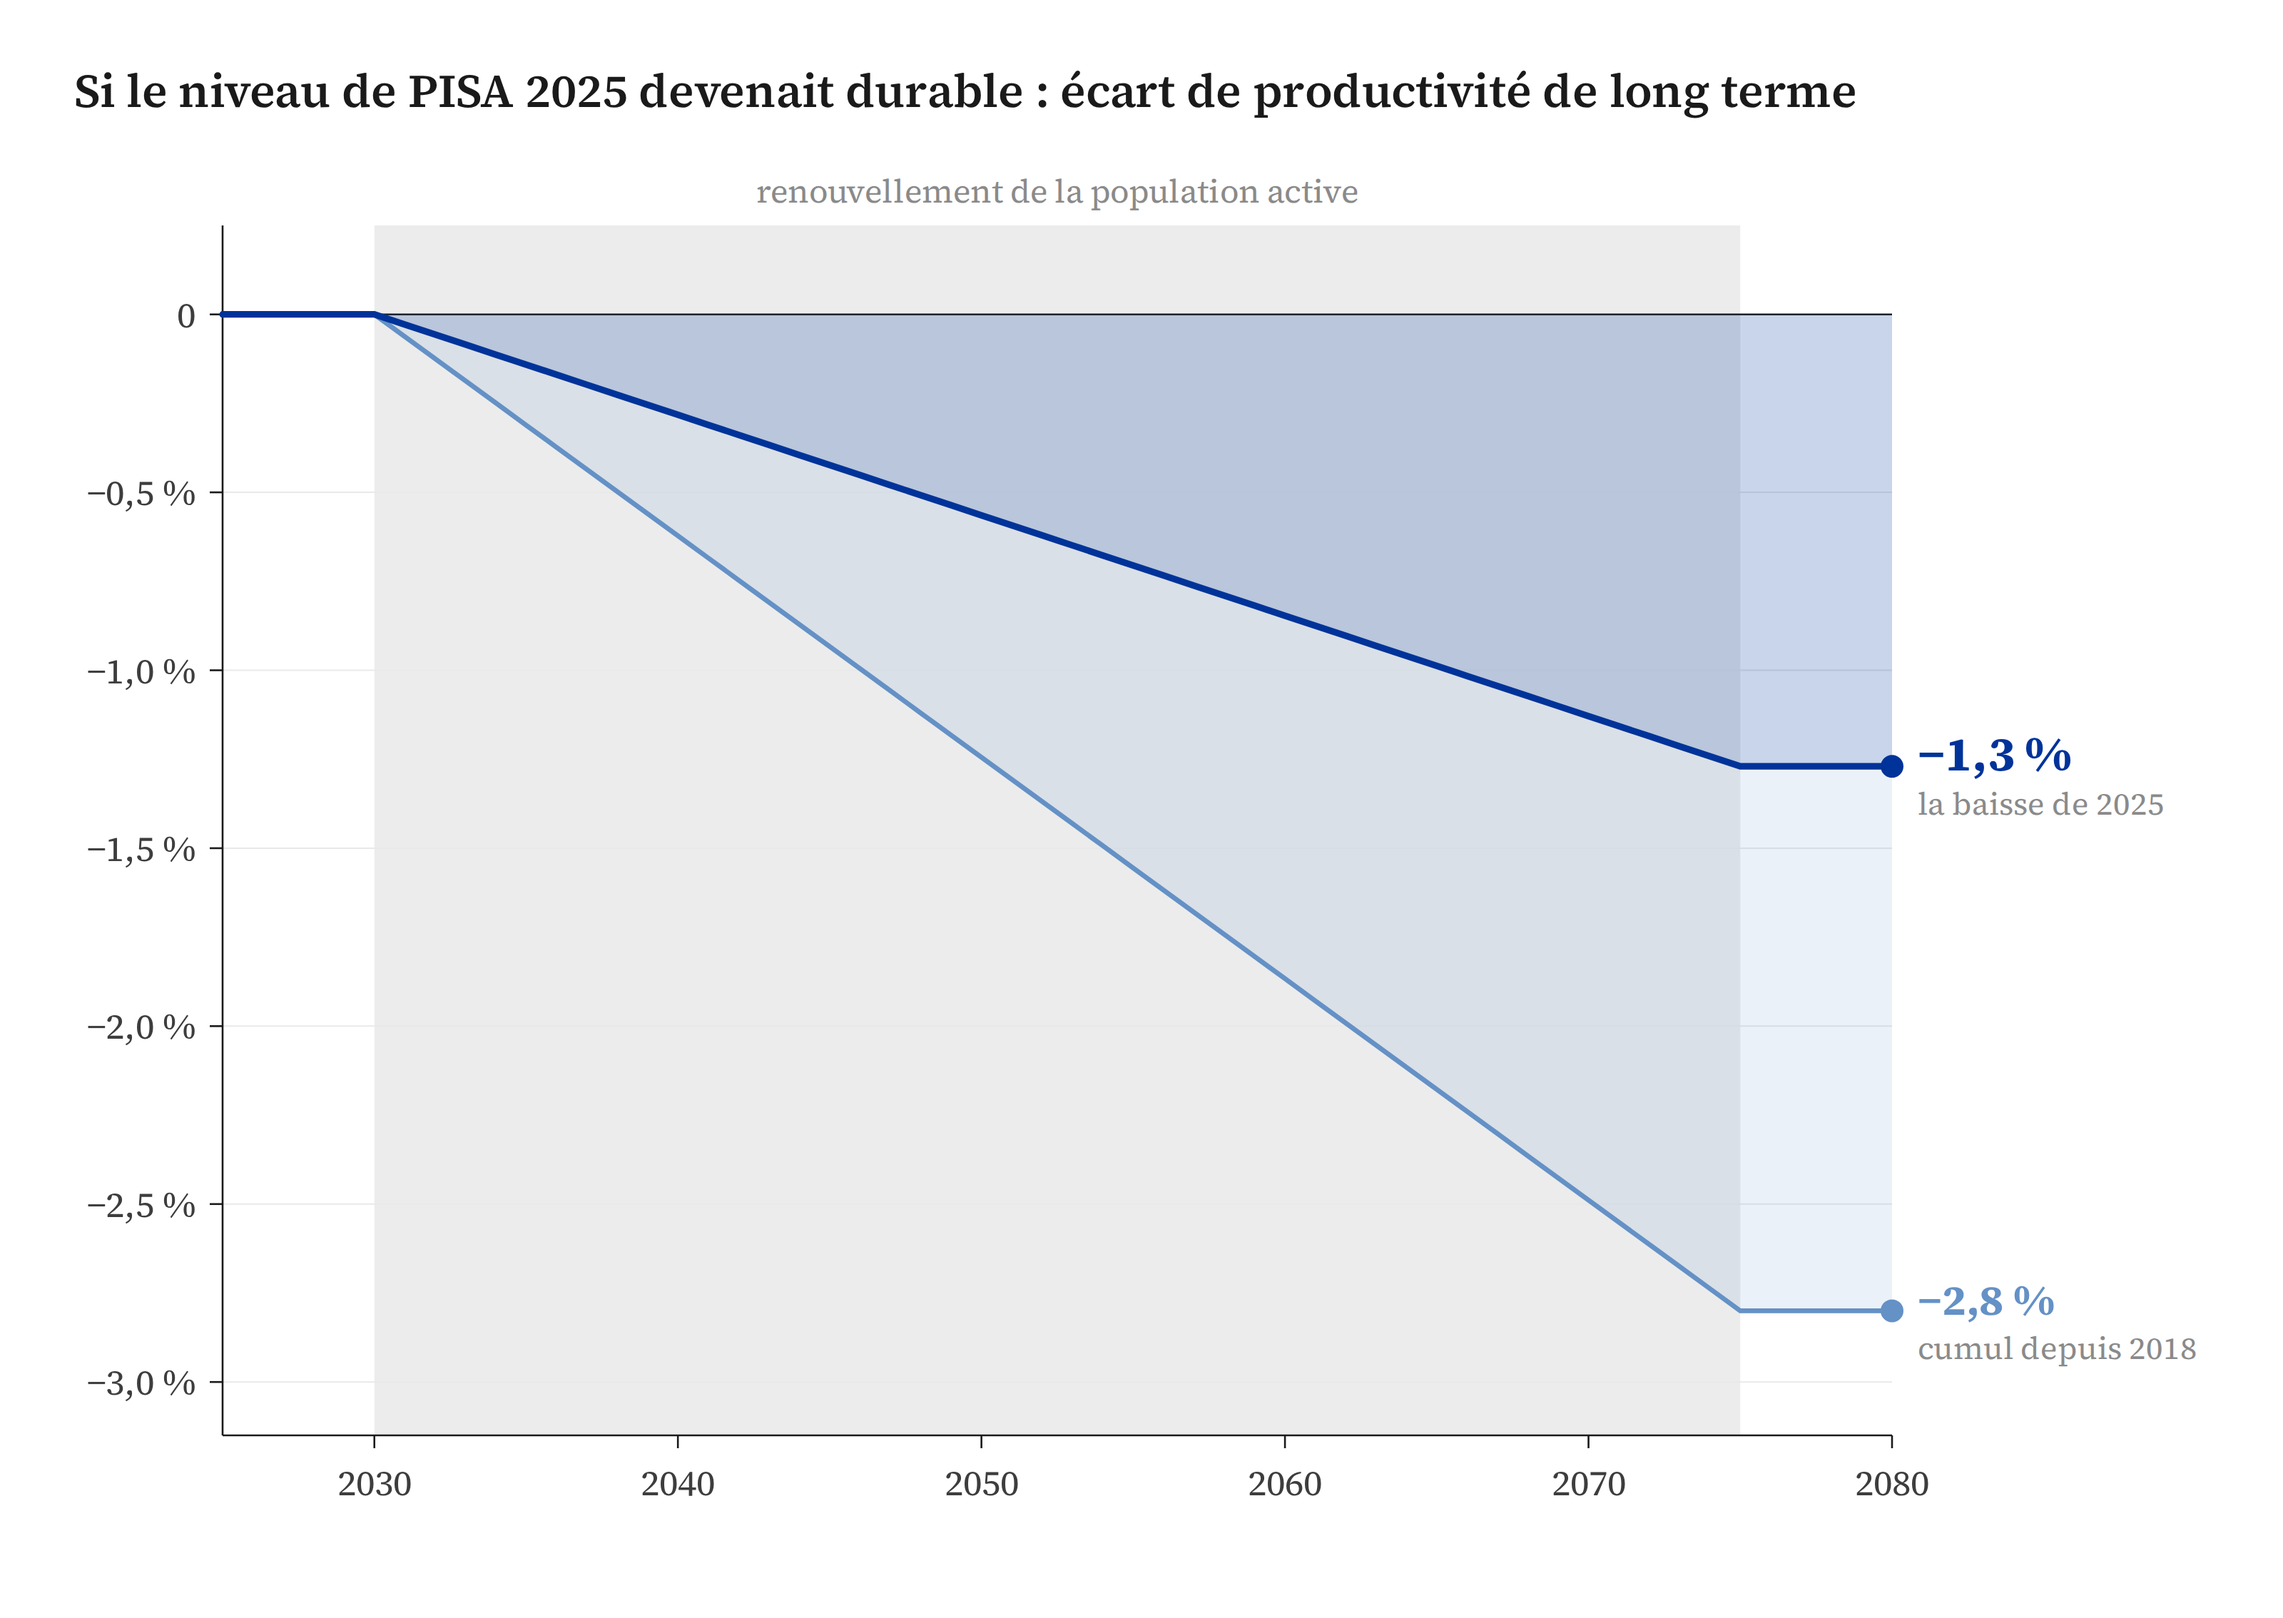
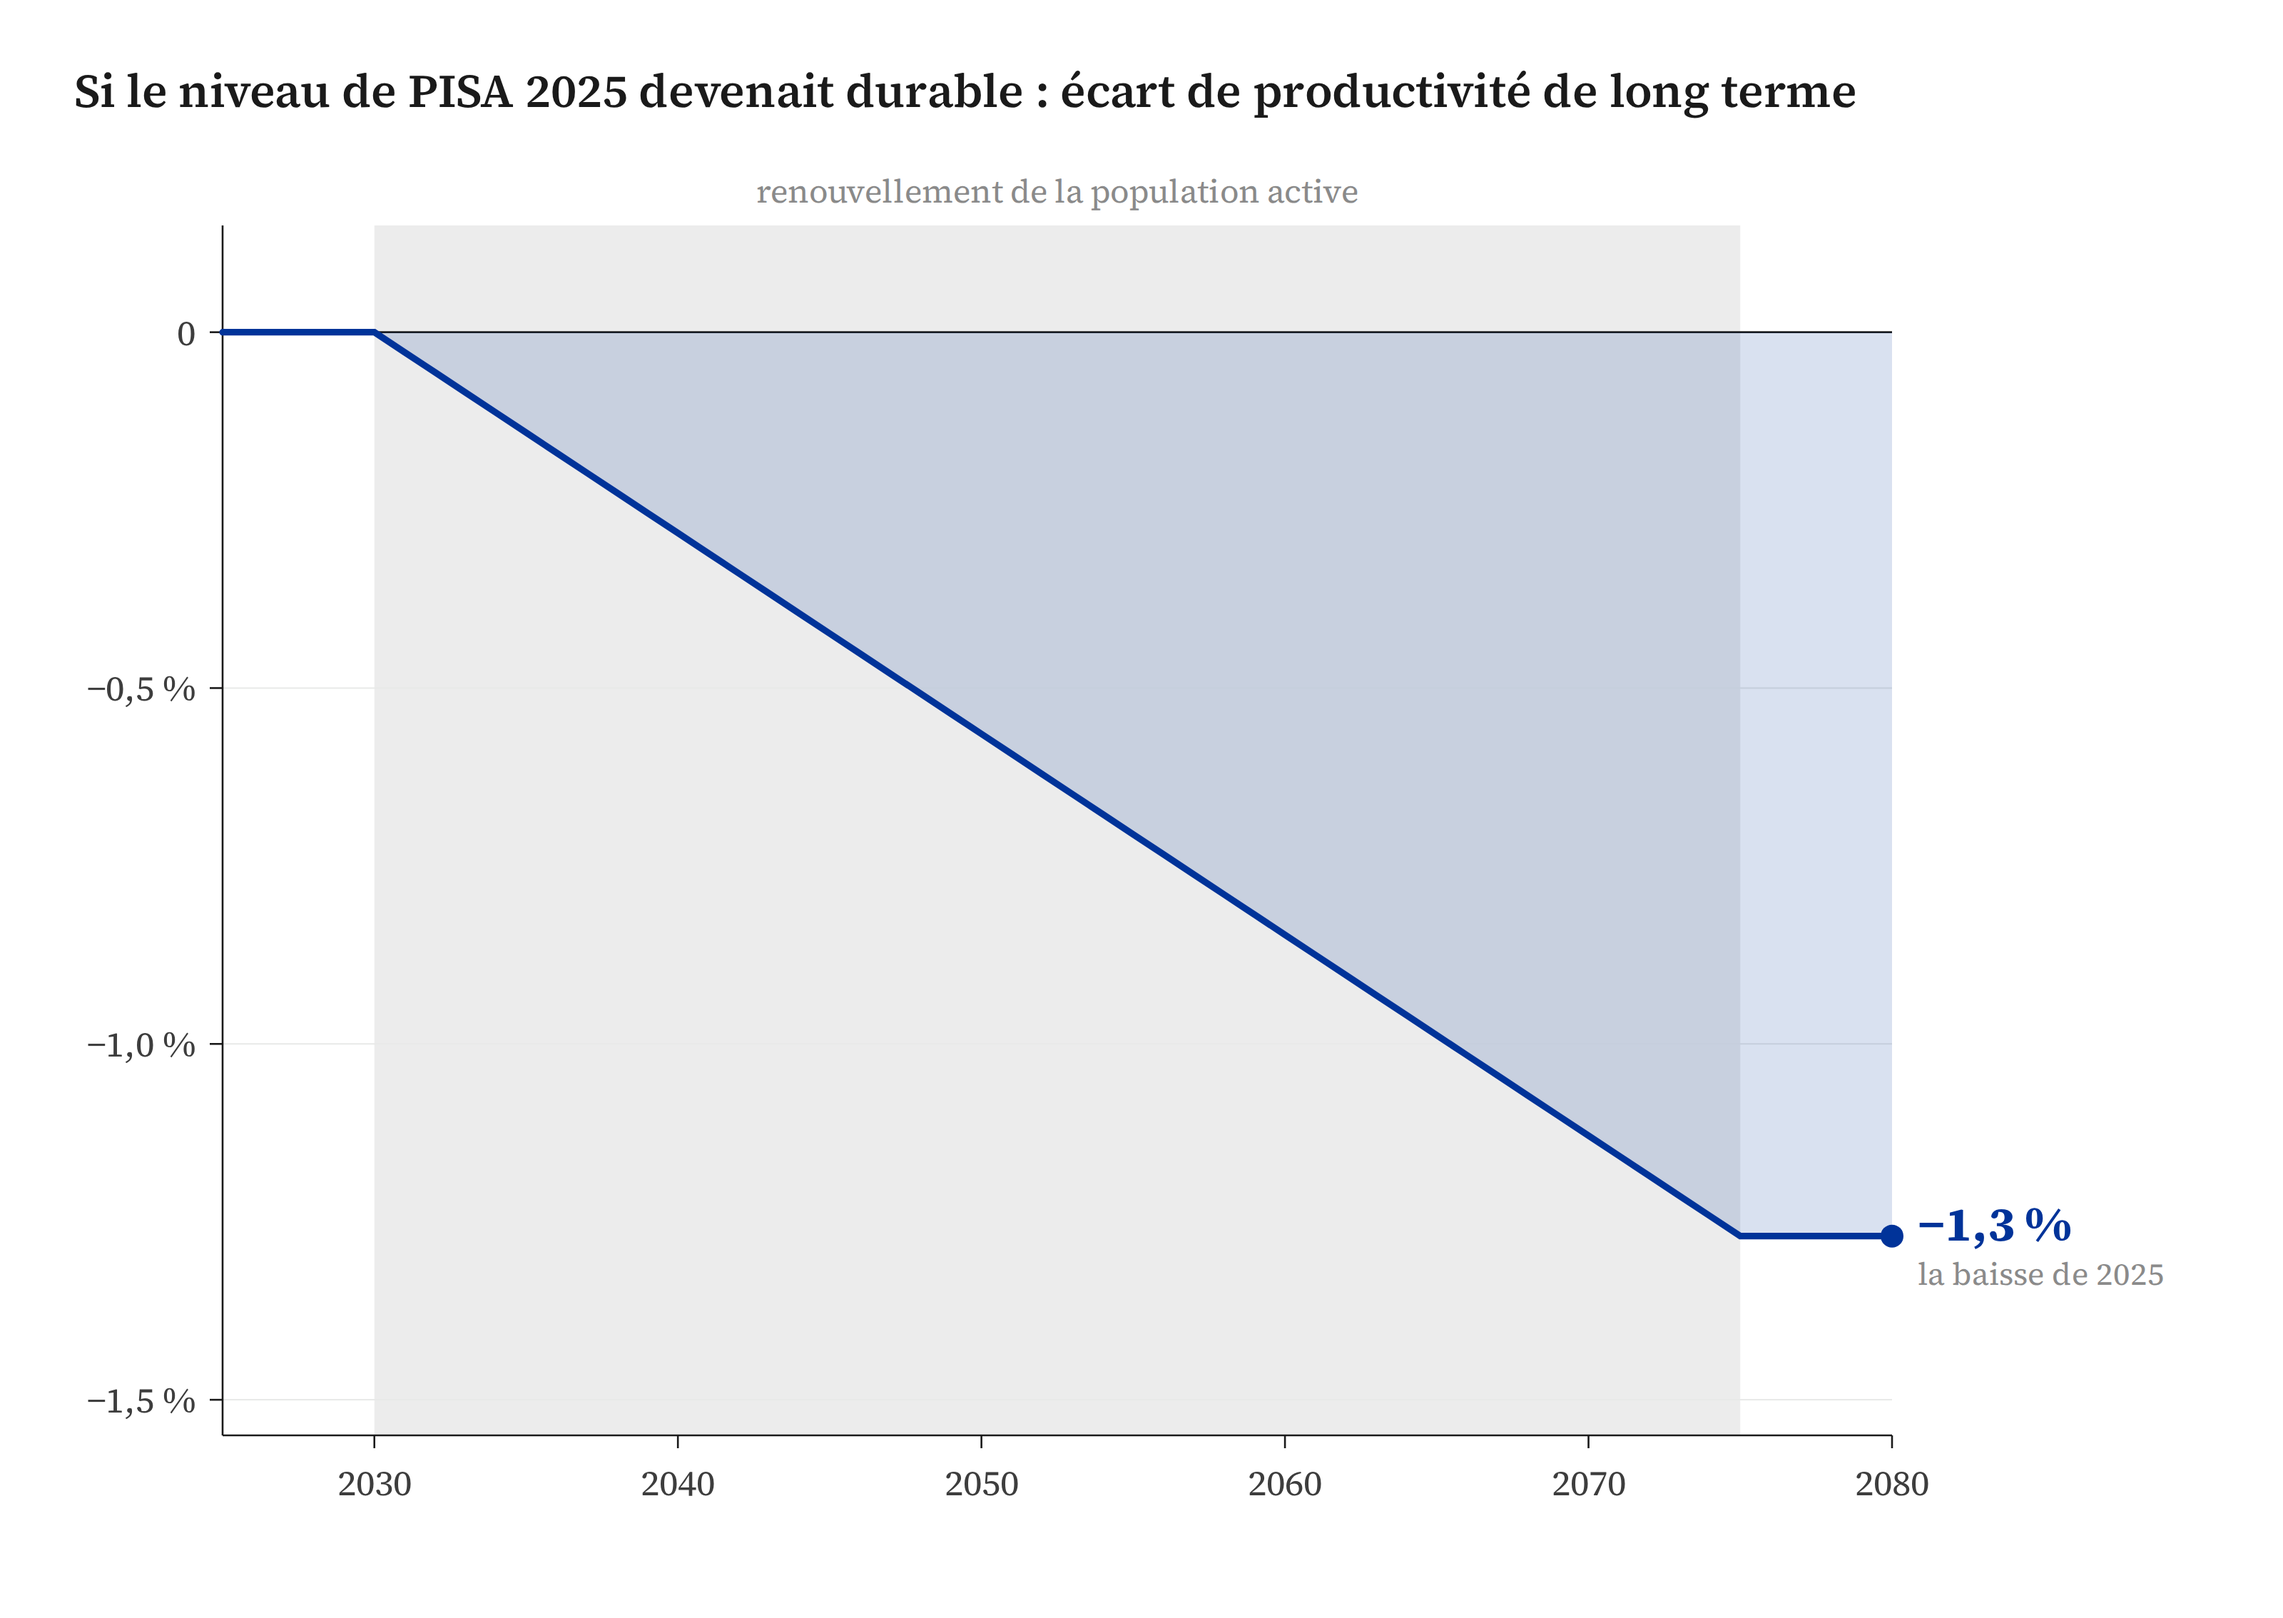
pisa: exprimer le thread et les figures par rapport à PISA 2022 uniquement
Le choc de référence retenu partout est désormais le seul écart 2022→2025
(−12,7 points, ≈−1,3 % de productivité de long terme), sans mélanger le
cumul depuis 2018.

- thread.md : tweets 1, 7, 8, 11 et la table de vérification réécrits pour
  ne garder que la comparaison à 2022 ; corrige au passage une incohérence
  résiduelle (une objection anticipée citait encore "−3 %" au lieu de
  "−1,3 %").
- figures/figures.html : fig3 ne garde que le bracket 2022→2025 (retire
  le bracket 2018) et corrige une collision entre le label "478,3" et la
  ligne de la série ; fig1 (le graphique de diffusion 2030-2075, en attente
  d'être remplacé par un nouveau design) perd sa trace cumulée 2018 pour
  rester cohérent avec le reste dans l'intervalle.

Claude-Session: https://claude.ai/code/session_01SW7mKrk2bK8EYwjJ4TJnMY

diff --git a/pisa/figures/figures.html b/pisa/figures/figures.html
@@ -40,12 +40,12 @@ const AXE={stroke:"var(--encre)","stroke-width":1.3};
 (function(){
   const s=document.getElementById("s1"), W=1496;
   const L=104,R=222,T0=54,B=902;
-  const px=v=>L+(v-2025)/(2080-2025)*(W-L-R), py=v=>T0+(0.25-v)/(0.25-(-3.15))*(B-T0);
+  const px=v=>L+(v-2025)/(2080-2025)*(W-L-R), py=v=>T0+(0.15-v)/(0.15-(-1.55))*(B-T0);
   const part=t=>Math.min(1,Math.max(0,(t-2030)/(2075-2030)));
   const ANS=[];for(let t=2025;t<=2080;t++)ANS.push(t);
 
   s.appendChild(E("rect",{x:px(2030),y:T0,width:px(2075)-px(2030),height:B-T0,fill:"var(--bande)"}));
-  [-0.5,-1,-1.5,-2,-2.5,-3].forEach(v=>{
+  [-0.5,-1,-1.5].forEach(v=>{
     s.appendChild(E("line",{x1:L,x2:W-R,y1:py(v),y2:py(v),stroke:"var(--grille)","stroke-width":1}));
     s.appendChild(E("line",Object.assign({x1:L-9,x2:L,y1:py(v),y2:py(v)},AXE)));
     s.appendChild(T("−"+fr(Math.abs(v),1)+" %",{x:L-19,y:py(v)+9,"text-anchor":"end",fill:"var(--encre2)","font-size":25}));
@@ -69,12 +69,9 @@ const AXE={stroke:"var(--encre)","stroke-width":1.3};
     s.appendChild(E("path",{d:c,fill:"none",stroke:coul,"stroke-width":lw,"stroke-linecap":"round"}));
     s.appendChild(E("circle",{cx:px(2080),cy:py(cible),r:8,fill:coul}));
   };
-  trace(-2.8,"var(--bleu2)",3.4,.13);
   trace(-1.27,"var(--bleu)",4.6,.15);
   s.appendChild(T("−1,3 %",{x:px(2080)+18,y:py(-1.27)+3,fill:"var(--bleu)","font-size":34,"font-weight":700}));
   s.appendChild(T("la baisse de 2025",{x:px(2080)+18,y:py(-1.27)+34,fill:"var(--gris)","font-size":22}));
-  s.appendChild(T("−2,8 %",{x:px(2080)+18,y:py(-2.8)+3,fill:"var(--bleu2)","font-size":30,"font-weight":700}));
-  s.appendChild(T("cumul depuis 2018",{x:px(2080)+18,y:py(-2.8)+34,fill:"var(--gris)","font-size":22}));
   s.appendChild(T("renouvellement de la population active",
     {x:(px(2030)+px(2075))/2,y:T0-16,"text-anchor":"middle",fill:"var(--gris)","font-size":23}));
 })();
@@ -82,7 +79,7 @@ const AXE={stroke:"var(--encre)","stroke-width":1.3};
 /* ===== Figure 3 : la série française ===== */
 (function(){
   const s=document.getElementById("s3"), W=1496;
-  const L=112,R=384,T0=44,B=902;
+  const L=112,R=240,T0=44,B=902;
   const px=v=>L+(v-2006)/(2025-2006)*(W-L-R), py=v=>T0+(502-v)/(502-462)*(B-T0);
   [465,470,475,480,485,490,495,500].forEach(v=>{
     s.appendChild(E("line",{x1:L,x2:W-R,y1:py(v),y2:py(v),stroke:"var(--grille)","stroke-width":1}));
@@ -98,18 +95,13 @@ const AXE={stroke:"var(--encre)","stroke-width":1.3};
   let d="";SCORES.forEach((p,i)=>{d+=(i?"L":"M")+px(p[0])+","+py(p[1]);});
   s.appendChild(E("path",{d:d,fill:"none",stroke:"var(--bleu)","stroke-width":4.4,"stroke-linejoin":"round","stroke-linecap":"round"}));
   SCORES.forEach(p=>s.appendChild(E("circle",{cx:px(p[0]),cy:py(p[1]),r:7.5,fill:"var(--bleu)"})));
-  s.appendChild(T("493,7",{x:px(2018),y:py(493.7)-24,"text-anchor":"middle",fill:"var(--bleu)","font-size":27,"font-weight":600}));
-  s.appendChild(T("478,3",{x:px(2022)+6,y:py(478.3)-24,"text-anchor":"middle",fill:"var(--bleu)","font-size":27,"font-weight":600}));
+  s.appendChild(T("478,3",{x:px(2022)+16,y:py(478.3)-16,fill:"var(--bleu)","font-size":27,"font-weight":600}));
   s.appendChild(T("465,7",{x:px(2025),y:py(465.7)+44,"text-anchor":"middle",fill:"var(--bleu)","font-size":27,"font-weight":600}));
-  const b1=px(2025)+52, b2=b1+146;
+  const b1=px(2025)+52;
   s.appendChild(E("line",{x1:b1,x2:b1,y1:py(478.3),y2:py(465.7),stroke:"var(--bleu)","stroke-width":2.4}));
   [py(478.3),py(465.7)].forEach(y=>s.appendChild(E("line",{x1:b1-11,x2:b1+11,y1:y,y2:y,stroke:"var(--bleu)","stroke-width":2.4})));
   s.appendChild(T("−12,7",{x:b1+22,y:(py(478.3)+py(465.7))/2+4,fill:"var(--bleu)","font-size":32,"font-weight":700}));
   s.appendChild(T("depuis 2022",{x:b1+22,y:(py(478.3)+py(465.7))/2+34,fill:"var(--gris)","font-size":22}));
-  s.appendChild(E("line",{x1:b2,x2:b2,y1:py(493.7),y2:py(465.7),stroke:"var(--bleu2)","stroke-width":2.2}));
-  [py(493.7),py(465.7)].forEach(y=>s.appendChild(E("line",{x1:b2-11,x2:b2+11,y1:y,y2:y,stroke:"var(--bleu2)","stroke-width":2.2})));
-  s.appendChild(T("−28",{x:b2+22,y:(py(493.7)+py(465.7))/2+4,fill:"var(--bleu2)","font-size":30,"font-weight":700}));
-  s.appendChild(T("depuis 2018",{x:b2+22,y:(py(493.7)+py(465.7))/2+34,fill:"var(--gris)","font-size":22}));
 })();
 
 /* ===== Figure 2 : la règle de pouce ===== */
